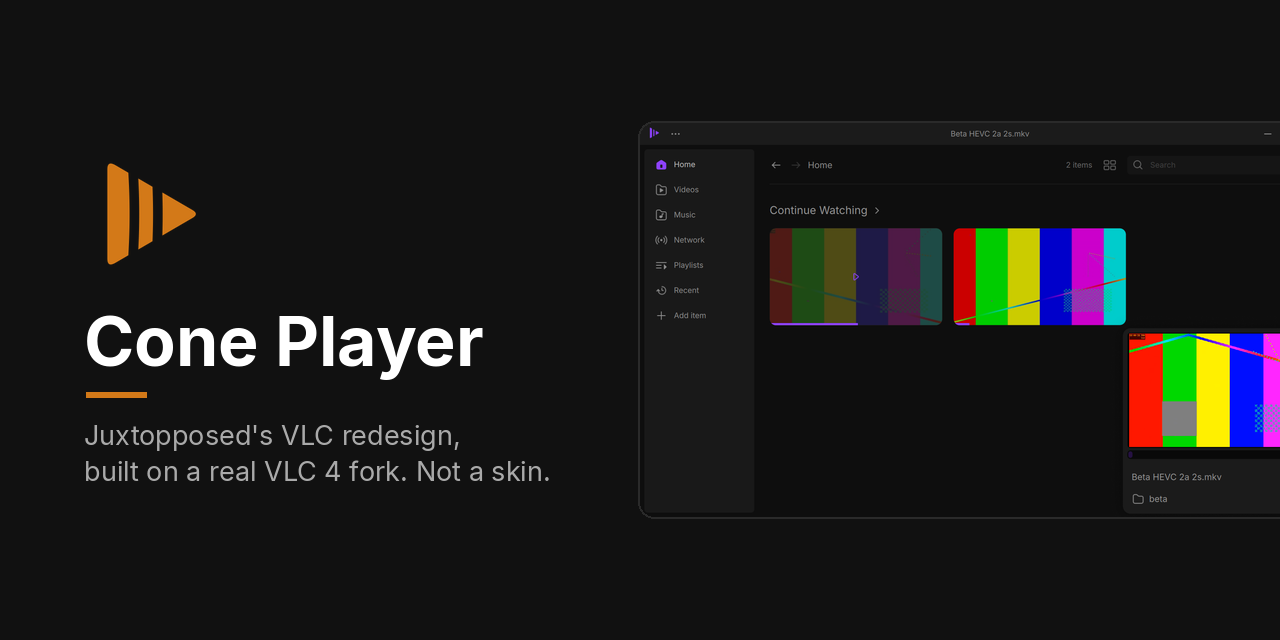
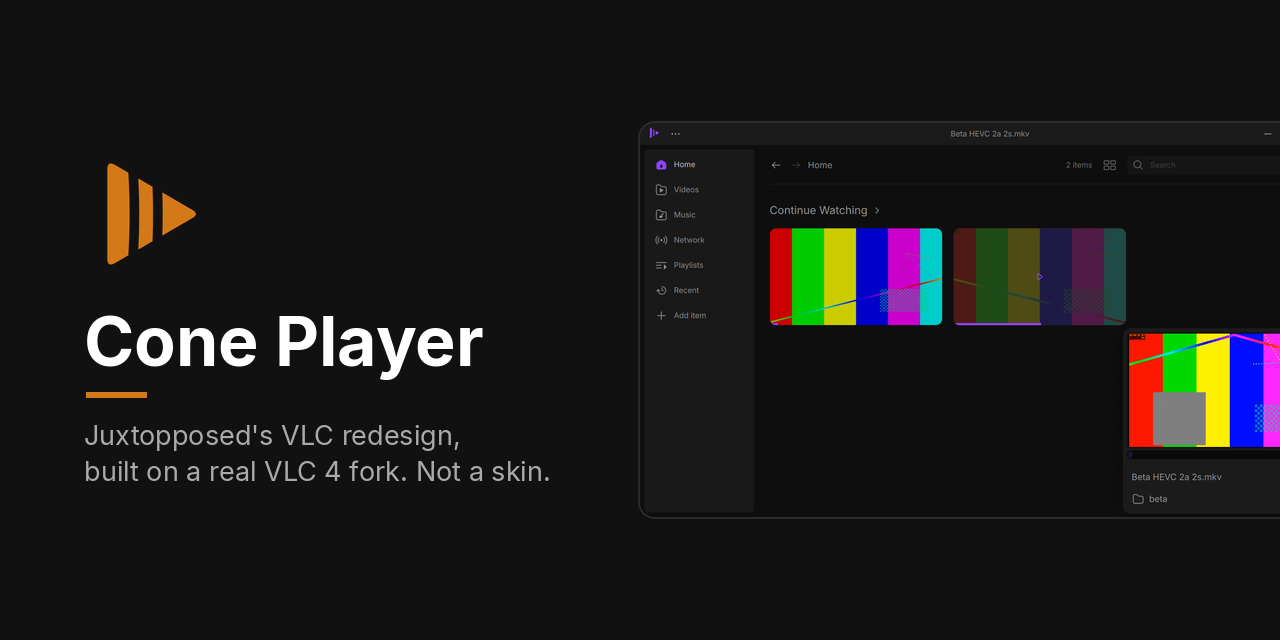
redesign: social preview from the retaken screenshot; checklist: hero and GitHub settings [skip ci]
Claude-Session: https://claude.ai/code/session_01VBw12dqCjLgStchMrung65

Changed region(s): [[0.5938, 0.3438, 0.9062, 0.5312], [0.875, 0.5938, 0.9688, 0.7188], [0.875, 0.5, 1.0, 0.5625]]

diff --git a/redesign/RELEASE_1.0_CHECKLIST.md b/redesign/RELEASE_1.0_CHECKLIST.md
@@ -35,6 +35,8 @@ Now: 298 verified, 61 context, 1 postponed, 1 dropped. Every buildable row is ve
 | 6 | Merge `wip/next-test` into `redesign` | PC session | not done | Done once 2026-10-26 00:40 (607d6bedfa); again after line 5 for the state with #33 / #46. |
 | 7 | Release workflow (PR #8, `wip/ci-release`): merge into `redesign` | PC session | not done | 1.0 file names and the "Cone Player <version>: ..." title done 2026-10-25 (d8fa02d1d0); needs #2 in `redesign` first, or its build step stops on the old names (CI_RELEASE_NOTES.md) |
 | 8 | Homepage screenshots: retake `docs/images/cone-player.png`, `cone-settings-sidebar.png`, `cone-library.png`, `cone-settings.png` on the 1.0 build | PC session | done | Retaken 2026-10-26 on `wip/next-test` build 40321389086 (gate dark screens, accent #8E42FF, 1600 x 900): 40ab5aa1bc. |
+| 8a | Homepage hero: replace `docs/images/hero.png` (now a frame of her Figma design) with a real Cone Player 1.0 screenshot, 1920 x 1080, the library with the mini player as in her frame, generated or public media only; then drop the "From Juxtopposed's Figma design" caption under it in README.md and rerun `python3 redesign/brand/make_social_preview.py` | PC session | not done | README layout: `wip/readme-1.0`, 2026-10-26 |
+| 8b | GitHub settings: upload `redesign/brand/social-preview.png` (Settings > General > Social preview) and paste the About box text (description, website, topics) from the README pull request | StickyGonzales | not done | Repository settings need the owner |
 | 9 | README and release notes (PR #54, `wip/readme-1.0`): final pass and merge | PC session | not done | RELEASE_1.0_NOTES_DRAFT.md "Before publishing": known issues rechecked on the 1.0 build, download links to the `v1.0.0` release, the commit in the license line, the new screenshots (#8) |
 | 10 | Go for the public release | StickyGonzales | not done | Publishing a public release needs StickyGonzales's go (CLAUDE.md, W9.1) |
 | 11 | Release: `v1.0.0` tag on `redesign`, release workflow, not a pre-release; smoke, screens and quit checks on the tag's build | PC session | not done | release.yml from `redesign`; files `ConePlayer-1.0.0-win64.zip`, `coneplayer-1.0.0-win64.exe`, SHA256SUMS.txt |
